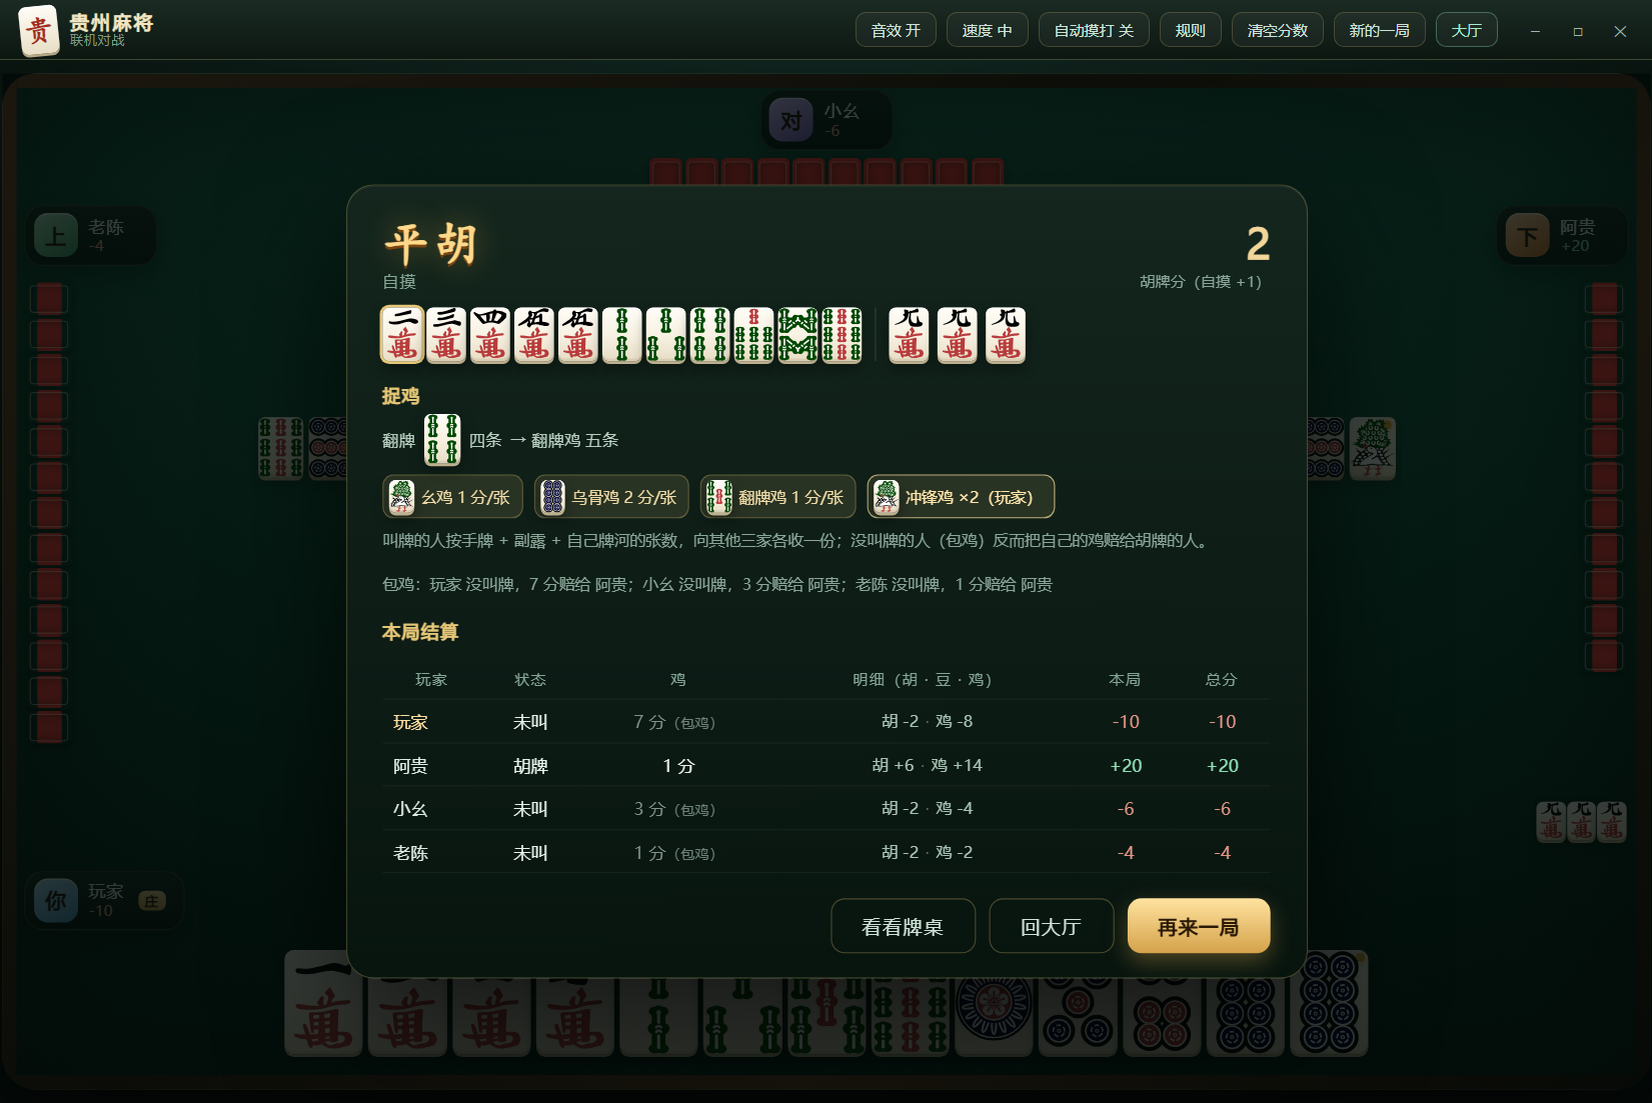
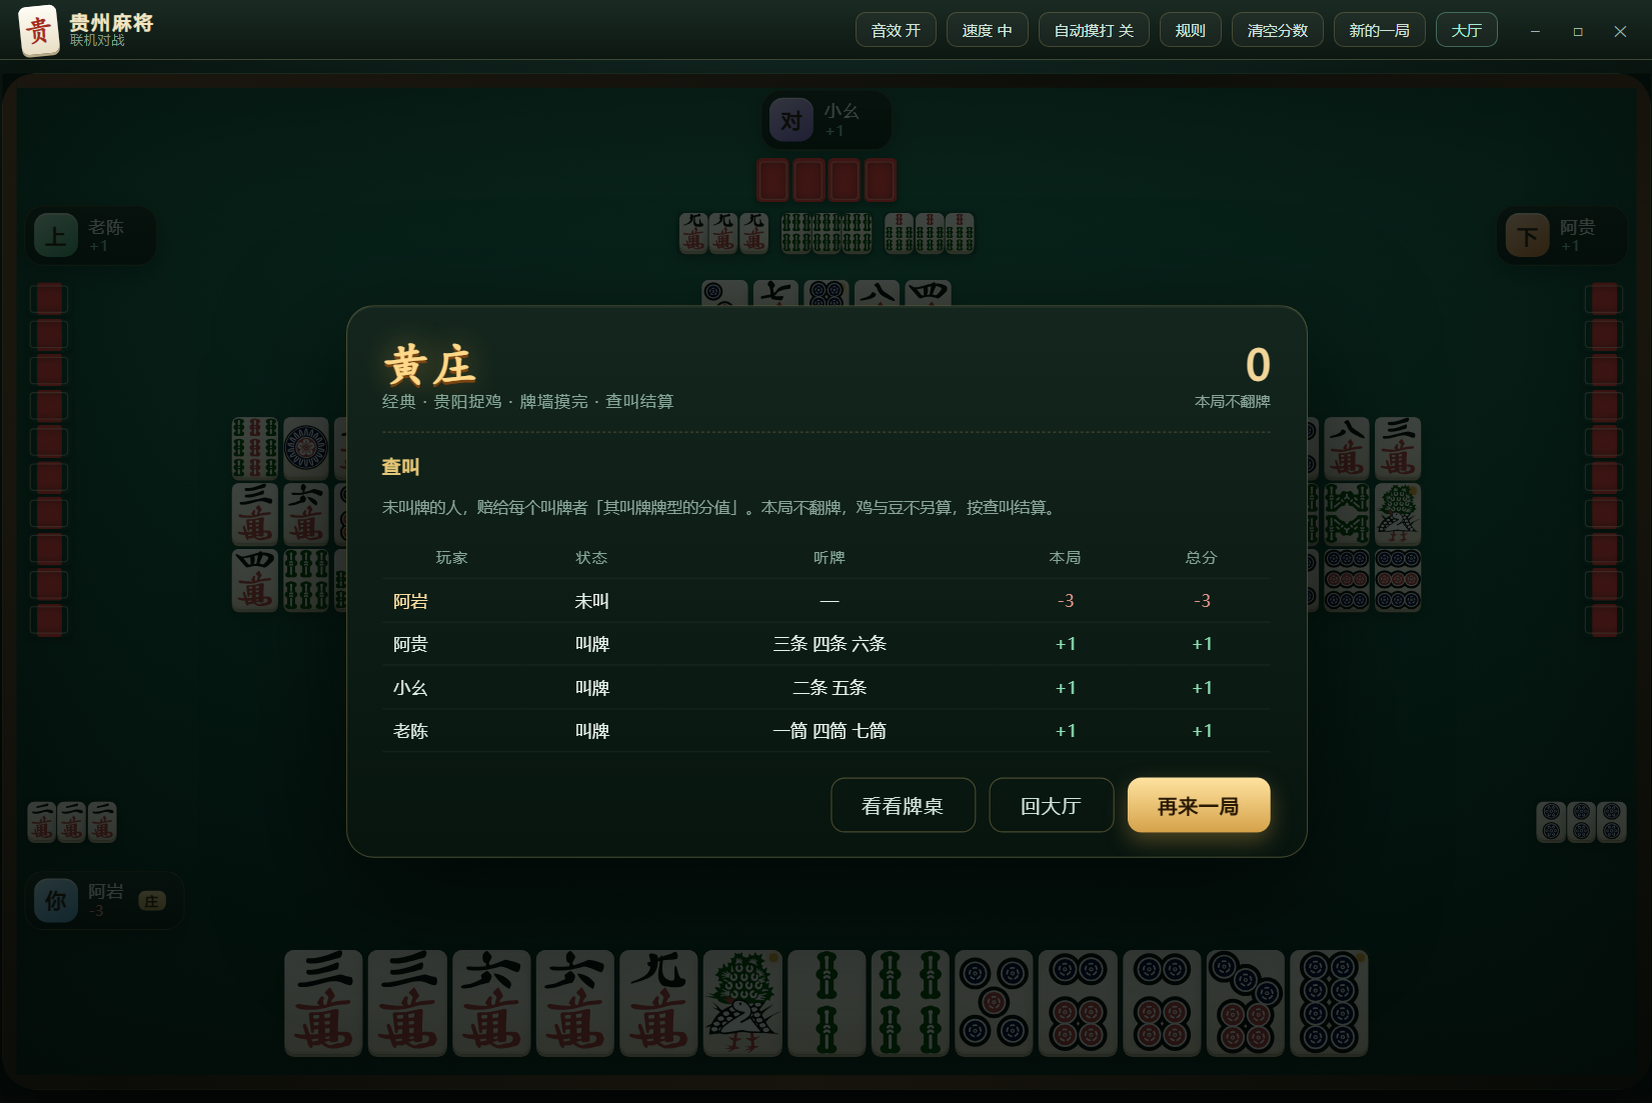
fix: 联机交互三处补漏
- 房主开局后其他玩家自动进场：room 广播 running=true 即进牌桌，
  新一局开始自动收起上一局结算面板（hideResult）
- 房间页补「返回大厅」按钮；退出房间也回大厅，不再黑屏；
  GZUI 挂到 window 供 online.js 回调
- 连上服务器即发 hello 报昵称，房间座位显示真实昵称（原来一直显示「玩家」）；
  断线时 leave(true) 不再 ReferenceError
- 服务端 sendSnapshotTo(seat)：进场/补发快照用，开局后立即下发发牌快照；
  新增 sync 消息，晚进场玩家点「进入牌桌」立刻拿到当前牌桌
- 非房主的开始按钮改为「进入牌桌」（原来 disabled 点不动）
- e2e-autojoin.cjs：双客户端验证房主开局→他人自动进场→sync 补快照

diff --git a/src/js/online.js b/src/js/online.js
@@ -23,12 +23,26 @@
     Net.on('msg', handle);
     Net.on('status', (st) => {
       if (view === 'connect') render();
+      if (st === 'open') {
+        // 连上先报名字：房间列表、牌桌座位都用它
+        Net.send({ t: 'hello', name: P.get().name });
+      }
       if (st === 'lost' && room) {
         onError('与服务器断开了连接');
-        leave();
+        leave(true);
       }
+      if (st === 'lost') render();
     });
     bind();
+    render();
+  }
+
+  /** 本地离开房间视图（退房请求已发或已断线） */
+  function leave(silent) {
+    if (!silent && Net.status() === 'open') Net.send({ t: 'leave' });
+    room = null;
+    view = 'connect';
+    started = false;
     render();
   }
 
@@ -41,13 +55,26 @@
         view = 'room';
         started = false;
         show();
+        // 中途加入一局已经开打的房间：直接进牌桌
+        if (room.running) enterTable();
         break;
-      case 'room':
+      case 'room': {
         if (!room || msg.room.id === room.id) {
+          const prev = room;
           room = msg.room;
           if (!started) render();
+          const newRound = room.running && (!prev || !prev.running
+            || (prev.roundNo !== room.roundNo));
+          if (room.running && !started) {
+            // 房主开局 / 开下一局：没在牌桌的玩家自动进场
+            enterTable();
+          } else if (room.running && started && newRound) {
+            // 新一局开始了：收起上一局的结算面板
+            if (root.GZUI && root.GZUI.hideResult) root.GZUI.hideResult();
+          }
         }
         break;
+      }
       case 'error':
         if (onError) onError(msg.err);
         break;
@@ -61,11 +88,27 @@
     }
   }
 
+  /** 进入联机牌桌（房主开局后所有人走这里） */
+  function enterTable() {
+    started = true;
+    hide();
+    // 先进场再要一份当前快照：晚进场 / 中途加入也能立刻拿到牌桌状态
+    if (onEnterGame) onEnterGame();
+    Net.send({ t: 'sync' });
+  }
+
   /* ---------------- 视图 ---------------- */
 
   function show() {
     if (!node) return;
     node.classList.remove('hidden');
+    // 网页模式（http://IP:8788 打开）默认直连本页来源，进去就能用
+    if (Net.status() === 'closed'
+      && (location.protocol === 'http:' || location.protocol === 'https:')) {
+      const addr = defaultAddr();
+      localStorage.setItem('gz-server', addr);
+      Net.connect(addr);
+    }
     render();
   }
 
@@ -81,27 +124,41 @@
     if (root.GZUI && root.GZUI.fit) root.GZUI.fit();
   }
 
+  /* 浏览器打开 http://IP:8788 时，默认就连本页来源的服务器；Electron(file://) 才退回手填 */
+  function defaultAddr() {
+    try {
+      if (location.protocol === 'http:' || location.protocol === 'https:') {
+        const proto = location.protocol === 'https:' ? 'wss://' : 'ws://';
+        return proto + location.host;
+      }
+    } catch (e) { /* ignore */ }
+    return localStorage.getItem('gz-server') || 'ws://127.0.0.1:8788';
+  }
+
   function connectHtml() {
     const st = Net.status();
     const badge = st === 'open'
       ? '<span class="ol-badge on">已连接</span>'
       : st === 'connecting' ? '<span class="ol-badge">连接中…</span>'
         : '<span class="ol-badge off">未连接</span>';
-    const saved = localStorage.getItem('gz-server') || 'ws://127.0.0.1:8788';
+    const saved = defaultAddr();
     const name = P.get().name;
+    const webMode = location.protocol === 'http:' || location.protocol === 'https:';
     return `<div class="ol-card">
       <div class="ol-head">
         <h2>联机对战</h2>
         ${badge}
       </div>
-      <p class="ol-sub">房主建房拿到 4 位房号，别人用房号进房；不满 4 人可以补机器人。经典和幺筒麻将都能联机。</p>
+      <p class="ol-sub">房主建房拿到 4 位房号，别人用房号进房；不满 4 人可以补机器人。经典和幺筒麻将都能联机。${
+        webMode ? '当前就是网页模式，服务器地址已自动填好。' : '也可以直接把 <b>http://服务器IP:8788</b> 发给朋友，浏览器打开即玩。'
+      }</p>
       <label class="ol-field">
         <span>服务器地址</span>
         <input id="ol-addr" value="${saved}" spellcheck="false" placeholder="ws://192.168.1.5:8788" />
       </label>
       <div class="ol-row">
         <button class="btn-ghost" data-act="connect">连接</button>
-        <span class="ol-tip">连上后创建或加入房间（浏览器打开 http://IP:8788 也行）</span>
+        <span class="ol-tip">连上后创建或加入房间</span>
       </div>
       <div class="ol-grid">
         <div class="ol-block">
@@ -143,8 +200,8 @@
       </div>`;
     }).join('');
 
-    const startedBtn = `<button class="btn-primary" data-act="start" ${room.host && room.full ? '' : 'disabled'}>
-      ${room.full ? '开始对局' : '还差人数'}</button>`;
+    const startedBtn = `<button class="btn-primary" data-act="start" ${room.full ? '' : 'disabled'}>
+      ${room.full ? (room.host ? '开始对局' : '进入牌桌') : '还差人数'}</button>`;
 
     return `<div class="ol-card wide">
       <div class="ol-head">
@@ -168,6 +225,7 @@
         `}
       </div>
       <div class="ol-foot">
+        <button class="btn-ghost" data-act="back">返回大厅</button>
         <button class="btn-ghost" data-act="leave">退出房间</button>
         ${room.host ? `<button class="btn-ghost" data-act="addbot" ${room.full ? 'disabled' : ''}>添加机器人</button>` : ''}
         ${startedBtn}
@@ -205,20 +263,11 @@
       } else if (act === 'removebot') {
         Net.send({ t: 'removebot', uid: btn.dataset.uid });
       } else if (act === 'start') {
-        Net.send({ t: 'start' });
-        started = true;
-        hide();
-        onEnterGame();
-      } else if (act === 'config') {
-        Net.send({
-          t: 'config',
-          config: {
-            mode: ($('#ol-mode2') || {}).value,
-            totalRounds: parseInt(($('#ol-rounds2') || {}).value || '4', 10)
-          }
-        });
+        if (room && room.host) Net.send({ t: 'start' });
+        enterTable();   // 房主请求开局后进场；其他人点「进入牌桌」直接进场
       } else if (act === 'leave') {
-        Net.send({ t: 'leave' });
+        leave();
+        if (root.GZUI && root.GZUI.showLobby) root.GZUI.showLobby();
       } else if (act === 'back') {
         hide();
         if (root.GZUI && root.GZUI.showLobby) root.GZUI.showLobby();

diff --git a/electron/main.js b/electron/main.js
@@ -91,8 +91,35 @@ async function capture() {
   }
 
   // 现在启动先到大厅：除大厅截图外，其余截图先进入对应玩法
-  if (shotMode === 'online-e2e') {
-    // 真服务器 + 真窗口 + 真 UI 点击：联机面板 → 建房 → 加机器人 → 开始对局
+  if (shotMode === 'online-e2e-host') {
+    // 房主视角自动化：连接 → 建房 → 满员 → 打印房号 → 点开始
+    const port = (process.argv.find((a) => a.startsWith('--server-port=')) || '').split('=')[1] || '8788';
+    const run = async () => {
+      const exec = (code) => w.webContents.executeJavaScript(code);
+      const wait = (ms) => new Promise((r) => setTimeout(r, ms));
+      const click = (sel) => exec(`(function(){ const b = document.querySelector('${sel}'); if (!b) return 'no-btn'; b.click(); return 'ok'; })()`);
+      const fill = (sel, v) => exec(`(function(){ const n = document.querySelector('${sel}'); if (!n) return 'no-input'; n.value = '${v}'; return 'ok'; })()`);
+
+      await exec(`window.__ui.showOnline(); 'ok'`);
+      await wait(400);
+      await fill('#ol-addr', `ws://127.0.0.1:${port}`);
+      await click('[data-act="connect"]');
+      await wait(800);
+      await exec(`(function(){ const s = document.querySelector('#ol-mode'); if (s) { s.value = 'classic'; s.dispatchEvent(new Event('change', { bubbles: true })); } return 'ok'; })()`);
+      await click('.ol-block [data-act="create"]');
+      await wait(700);
+      // 房号从 joined 消息的 DOM 里读：房间标题
+      const roomCode = await exec(`(function(){ const h = document.querySelector('.ol-head h2'); const m = h && h.textContent.match(/\\d{4,6}/); return m ? m[0] : 'none'; })()`);
+      console.log('HOST-ROOM', roomCode);
+      for (let i = 0; i < 2; i++) { await click('[data-act="addbot"]'); await wait(280); }
+      console.log('HOST-START', await click('[data-act="start"]'));
+      await wait(1200);
+      // 保持窗口开着，让 B 的加入与开局广播都有时间送达
+      await wait(3000);
+    };
+    try { await run(); } catch (err) { console.log('HOST-ERR', err && err.message); }
+    await sleep(300);
+  } else if (shotMode === 'online-e2e') {    // 真服务器 + 真窗口 + 真 UI 点击：联机面板 → 建房 → 加机器人 → 开始对局
     const port = (process.argv.find((a) => a.startsWith('--server-port=')) || '').split('=')[1] || '8788';
     const run = async () => {
       const exec = (code) => w.webContents.executeJavaScript(code);
@@ -116,6 +143,38 @@ async function capture() {
         console.log('BOT', await click('[data-act="addbot"]'));
         await wait(300);
       }
+      // 3.5 房间视图断言：座位显示昵称 + 返回大厅可用
+      const roomCheck = await exec(`
+        (function(){
+          const names = [...document.querySelectorAll('.ol-seat-name')].map((n) => n.textContent);
+          const hasBack = !!document.querySelector('[data-act="back"]');
+          const inOnline = document.body.classList.contains('in-online');
+          return JSON.stringify({ names, hasBack, inOnline });
+        })()
+      `);
+      console.log('ROOM-CHECK', roomCheck);
+      console.log('BACK', await click('[data-act="back"]'));
+      await wait(500);
+      const lobbyCheck = await exec(`
+        (function(){
+          return JSON.stringify({
+            lobbyVisible: !document.querySelector('#lobby').classList.contains('hidden'),
+            onlineHidden: document.querySelector('#online').classList.contains('hidden'),
+            inLobby: document.body.classList.contains('in-lobby')
+          });
+        })()
+      `);
+      console.log('LOBBY-CHECK', lobbyCheck);
+      // 回到联机面板继续（房间还在服务器上）
+      await exec(`window.__ui.showOnline(); 'ok'`);
+      await wait(500);
+      const backInRoom = await exec(`
+        (function(){
+          const names = [...document.querySelectorAll('.ol-seat-name')].map((n) => n.textContent);
+          return JSON.stringify({ view: window.GZOnline.room ? 'room' : 'connect', names });
+        })()
+      `);
+      console.log('REJOIN-CHECK', backInRoom);
       // 4. 开始对局（走真实按钮 → onEnterGame → RemoteGame）
       console.log('START', await click('[data-act="start"]'));
       await wait(900);
@@ -233,7 +292,7 @@ async function capture() {
     w.webContents.reload();
     await loaded;
     await sleep(1200);
-  } else if (shotMode !== 'online' && shotMode !== 'online-room' && shotMode !== 'online-e2e') {
+  } else if (shotMode !== 'online' && shotMode !== 'online-room' && shotMode !== 'online-e2e' && shotMode !== 'online-e2e-host') {
     const modeForShot = shotMode.indexOf('yitong') === 0 ? 'yitong' : 'classic';
     await w.webContents.executeJavaScript(`
       (function(){

diff --git a/src/js/ui.js b/src/js/ui.js
@@ -638,6 +638,12 @@
     el.overlay._sig = null;
   }
 
+  /** 新一局开始（联机：房主开了下一局）→ 收起上一局结算 */
+  function hideResult() {
+    el.overlay.classList.add('hidden');
+    el.overlay.innerHTML = '';
+  }
+
   /* ---------------- 规则 ---------------- */
 
   const RULES_COMMON = `
@@ -775,10 +781,12 @@
       else if (act === 'next') {
         el.overlay.classList.add('hidden');
         if (game.isRemote) {
-          // 联机：房主开下一局，其他人回到房间等待
-          window.GZNet.send({ t: 'next' });
-          if (window.GZOnline.room && !window.GZOnline.room.host) {
-            toast('已请求下一局，等房主开局', 2200);
+          const onlineRoom = window.GZOnline.room;
+          if (onlineRoom && onlineRoom.host) {
+            // 房主开下一局；其他玩家由服务端 room 广播自动进场
+            window.GZNet.send({ t: 'next' });
+          } else {
+            toast('等房主开下一局', 2200);
             showOnlineRoom();
           }
         } else game.nextRound();
@@ -1114,14 +1122,20 @@
 
     GZOnline.init({ onError: toast, onEnterGame: enterOnlineGame });
     GZLobby.init({ onEnter: enterMode, onRules: showRules, onRender: fit, onOnline: showOnline });
-    window.__ui = { enterMode, showLobby, showOnline, showRules, fit };
+    window.__ui = { enterMode, showLobby, showOnline, showRules, showResult, hideResult, fit };
+    window.GZUI = window.__ui;   // 供 online.js / lobby.js 回调返回大厅、联机面板
 
     // 联机消息只在启动时挂一次；onNetMsg 自己判断当前牌桌
     window.GZNet.on('msg', onNetMsg);
     window.GZNet.on('status', (st) => {
       if (st === 'lost') {
         toast('与服务器断开连接', 3000);
-        if (game && game.isRemote) showLobby();
+        if (game && game.isRemote) {
+          game = null;          // 这桌已经没了
+          window.__game = null;
+        }
+        GZOnline.hide();
+        showLobby();
       }
     });
 

diff --git a/server/room.js b/server/room.js
@@ -122,12 +122,19 @@ class Room {
 
   broadcastGame() {
     if (!this.game) return;
+    this.sendSnapshotTo(null);
+  }
+
+  /** 给某个座位（或全部真人座位）补发一份带全部未播 fx 的快照 */
+  sendSnapshotTo(seat) {
+    if (!this.game) return;
     const fx = this.fx.splice(0, this.fx.length);
-    for (let seat = 0; seat < 4; seat++) {
-      const s = this.seats[seat];
-      if (!s || s.bot || !s.ws || s.ws.readyState !== 1) continue;
-      const snap = snapshot(this.game, seat);
-      s.ws.send(JSON.stringify({ t: 'snapshot', snap, fx: this.rotateFx(seat) }));
+    for (let s = 0; s < 4; s++) {
+      if (seat !== null && s !== seat) continue;
+      const pl = this.seats[s];
+      if (!pl || pl.bot || !pl.ws || pl.ws.readyState !== 1) continue;
+      const snap = snapshot(this.game, s);
+      pl.ws.send(JSON.stringify({ t: 'snapshot', snap, fx: this.rotateFx(s) }));
     }
   }
 
@@ -168,6 +175,7 @@ class Room {
     });
     game.startRound();
     this.broadcastRoom();
+    this.sendSnapshotTo(null);   // 立刻给所有真人补发发牌快照（含刚进场的玩家）
     return { ok: true };
   }
 

diff --git a/server/index.js b/server/index.js
@@ -187,6 +187,15 @@ function handleMessage(me, msg) {
       return;
     }
 
+    /* 玩家（重新）进入牌桌：立刻补发一份当前快照，不等下一次状态变化 */
+    case 'sync': {
+      if (!me.room || !me.room.game) return;
+      const seat = me.room.seatOf(me.uid);
+      if (seat < 0) return;
+      me.room.sendSnapshotTo(seat);
+      return;
+    }
+
     case 'ping': send(me.ws, { t: 'pong' }); return;
 
     default: send(me.ws, { t: 'error', err: `未知消息 ${msg.t}` });
